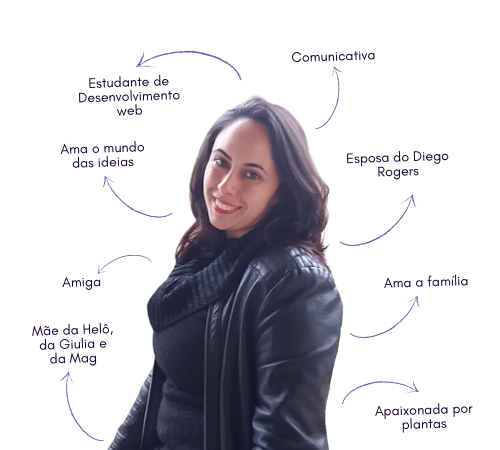
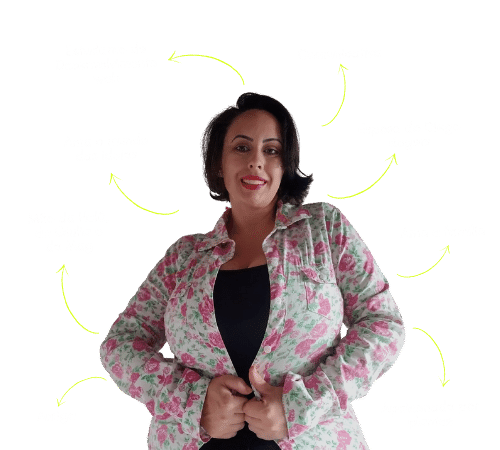
organizei a semantica e troquei a foto

diff --git a/index.html b/index.html
@@ -8,79 +8,89 @@
 </head>
 <body> 
     <header>
-        <ul>
-            <li><a href="#Quem sou eu">Quem sou eu</a>
-            <li><a href="#Minhas habilidades">Minhas habilidades</a>
-            <li><a href="#Minhas referencias">Minhas referências</a>
-            <li><a href="#Sobre carreira">Sobre carreira</a>
-            <li><a href="#Meus projetos">Meus projetos</a>
-            <li><a href="Vamos nos conectar">Vamos nos conectar?</a>
-            </ul>
+            <h1>Miriam da Silva Vidoto Santana</h1> 
+            <nav>
+                <a href="#Quem sou eu">Quem sou eu</a>
+                <a href="#Minhas habilidades">Minhas habilidades</a>
+                <a href="#Minhas referencias">Minhas referências</a>
+                <a href="#Sobre carreira">Sobre carreira</a>
+                <a href="#Meus projetos">Meus projetos</a>
+                <a href="Vamos nos conectar">Vamos nos conectar?</a>
+            </nav>
     </header>  
     <main>    
-        <h1 id="Quem sou eu">Miriam da Silva Vidoto Santana</h1>
-        <h2>Eu sou meu maior projeto em desenvolvimento</h2>
-        <img src="images/minha-foto.png" alt="Minha foto">
-        <p>Olá, tudo bem? </p>
-        <p>Meu nome é Miriam, tenho 32 anos , sou filha da Sueli e do Junior, esposa do Diego e mãe da Heloísa de 10 anos, da Giulia de 6 anos e da Mag (minha bebê de 4 patas),  sou brasileira e atualmente meu lar está em Guarujá - SP.</p>
-        <p>Sou estudante de Desenvolvimento na <a href="https://www.betrybe.com/?utm_source=google&utm_medium=cpc&utm_campaign=pmax&utm_content=ad1&gclid=CjwKCAjwxZqSBhAHEiwASr9n9OaHDs_IPYOV6vLOSEwQWFu0UWgXkovAmG_754FUmUWv0P2CVjGU5BoCa2sQAvD_BwE" target="_blank" rel="external">Trybe</a>, onde aprendo um pouco mais a cada dia para me tornar uma Dev Full Stack</p>
-        <hr>
-        <h2 id="Minhas habilidades">Minhas habilidades</h2>
-        <p>Essas são as principais habilidades que desenvolvi ao longo do tempo e que procuro aprimorar a cada dia:</p>
-        <ul>
-            <li>Comunicação
-            <li><strong>Organização</strong>
-            <li>Resiliência
-            <li>Criatividade
-            <li>Planejamento estratégico
-            <li><strong>Autogestão</strong>
-            <li>Algoritmo
-            <li>Diagramação
-            <li>Técnicas de vendas
-            <li>Gestão empresarial
-            <li><strong>Sede em aprender</strong>
-        </ul>
-        <hr>
-        <h2 id="Minhas referencias">Minhas referências</h2>
-        <p>Na minha vida, existem muitas pessoas que me inspiram, família, amigos e profissionais.</p>
-        <p>Na internet também existem pessoas que eu tenho como referência, e conteúdos que costumo consumir. </p>
-        <p>Gosto muito do <a href="https://blog.betrybe.com/" target="_blank" rel="external">blog da Trybe</a> , com conteúdos riquíssimos e atuais.Aprendo muito com o <a href="https://www.cursoemvideo.com/" target="_blank" rel="external">Curso em vídeo</a>, a metodologia do <a href="https://www.instagram.com/gustavoguanabara/" target="_blank" rel="external">Gustavo Guanabara</a> me encanta, amo a forma simples que ele ensina, e sempre me atualizo com o casal de Devs do meu coração com o <a href="https://www.codigofonte.com.br/" target="_blank" rel="external">Código fonte</a>, a <a href="https://www.linkedin.com/in/vanessa-weber-froes/?originalSubdomain=br" target="_blank" rel="external">Vanessa</a> e o <a href="https://www.linkedin.com/in/gabrielfroes/?originalSubdomain=br" target="-blank" rel="external">Gabriel</a> me inspiram</p>
-        <p>Não se compare, se inspire!</p>
-        <hr>
-        <h2 id="Sobre carreira">Sobre carreira</h2>
-        <p><q>Não se sinta culpado por não saber o que fazer da vida, as pessoas mais interessantes que eu conheço não sabiam, aos vinte e dois o que queriam fazer da vida. Alguns dos quarentões mais interessantes que eu conheço ainda não sabem</q>... esse trecho do f texto <strong>Filtro solar</strong>  sempre martelou muito em minha mente!</p>
-        <p>Acho chic quem diz estar em transição de carreira, mas a minha carreira parece uma constante transição.</p>
-        <p>Já sonhei em ser professora, acho que o sonho de muitas crianças, pois é o profissional que logo cedo nos encanta por realmente fazer a diferença em nosso mundo. Amo a área da educação, inclusive nessa área já passei em 3 concursos públicos mas acabei não assumindo nenhum. </p>
-        <p>á tive um pezinho na área da saúde, um ano maravilhoso que me despertou para pensar em cursar técnico em enfermagem, mas isso ficou só no pensamento mesmo. </p>
-        <p>Acredite se quiser, já me certifiquei e trabalhei na área da beleza como maquiadora e designer de sobrancelhas. </p>
-        <p>Também já trabalhei com diversos tipos de artesanatos, mas posso considerar mais um hobby.
-        </p>
-        <p>Me formei a nível técnico em Gestão de pequenos Negócios, pensei em diversos momentos em ter minha própria empresa e hoje meu maior empreendimento é minha casa e minha família que eu administro com paixão!</p>
-        <p>Em certo momento iniciei o curso de contabilidade... Mas também não foi dessa vez.</p>
-        <p>Atuei na maior parte da minha vida no comércio e aprendi muita coisa, acredito que toda experiência é válida quando bem aplicada. Aprendi a sempre colocar meu coração  em tudo o que faço. Um trabalho deve ser mais que apenas pela recompensa financeira, precisa ser uma missão de vida e meu desejo é sempre fazer parte da solução. de cumprir os objetivos com eficácia.</p>
-        <p>Enfim, esse ano (2022) decretei que daria uma guinada na minha carreira, com o pensamento de seguir na área de tecnologia.</p>
-        <p>Como sempre eu pensei em diversos caminhos a seguir e enquanto analisava cada um deles, me deparei com a visão e missão da Trybe e me apaixonei por essa  escola maravilhosa que, com muito suor, hoje eu estudo! </p>
-        <p>Sei que vai ser um ano desafiador! Vou estudar até sair fumacinha da cabeça, mas tenho convicção que vou me realizar nessa área!</p>
-        <p>Com as expectativas lá em cima, eu vou com tudo!!! Ao infinito e além! Porque foguete não tem ré!</p>
-        <hr>
-        <h2 id="Meus projetos">Meus projetos</h2>
-        <p>Esse é um espaço para eu falar sobre meus projetos como estudante na Trybe</p>
+        <section id="Quem sou eu">
+            <h2> Eu sou meu maior projeto em desenvolvimento</h2>
+            <img src="images/minha-foto.png" alt="Minha foto">
+            <p>Olá, tudo bem? </p>
+            <p>Meu nome é Miriam, tenho 32 anos , sou filha da Sueli e do Junior, esposa do Diego e mãe da Heloísa de 10 anos, da Giulia de 6 anos e da Mag (minha bebê de 4 patas),  sou brasileira e atualmente meu lar está em Guarujá - SP.</p>
+            <p>Sou estudante de Desenvolvimento na <a href="https://www.betrybe.com/?utm_source=google&utm_medium=cpc&utm_campaign=pmax&utm_content=ad1&gclid=CjwKCAjwxZqSBhAHEiwASr9n9OaHDs_IPYOV6vLOSEwQWFu0UWgXkovAmG_754FUmUWv0P2CVjGU5BoCa2sQAvD_BwE" target="_blank" rel="external">Trybe</a>, onde aprendo um pouco mais a cada dia para me tornar uma Dev Full Stack</p>
+        </section>
+        
+        <section id="Minhas habilidades">
+            <h2>Minhas habilidades</h2>
+            <p>Essas são as principais habilidades que desenvolvi ao longo do tempo e que procuro aprimorar a cada dia:</p>
+            <ul>
+                <li>Comunicação
+                <li><strong>Organização</strong>
+                <li>Resiliência
+                <li>Criatividade
+                <li>Planejamento estratégico
+                <li><strong>Autogestão</strong>
+                <li>Algoritmo
+                <li>Diagramação
+                <li>Técnicas de vendas
+                <li>Gestão empresarial
+                <li><strong>Sede em aprender</strong>
+            </ul>
+        </section>
+        <section id="Minhas referencias">
+            <h2>Minhas referências</h2>
+            <p>Na minha vida, existem muitas pessoas que me inspiram, família, amigos e profissionais.</p>
+            <p>Na internet também existem pessoas que eu tenho como referência, e conteúdos que costumo consumir. </p>
+            <p>Gosto muito do <a href="https://blog.betrybe.com/" target="_blank" rel="external">blog da Trybe</a> , com conteúdos riquíssimos e atuais.Aprendo muito com o <a href="https://www.cursoemvideo.com/" target="_blank" rel="external">Curso em vídeo</a>, a metodologia do <a href="https://www.instagram.com/gustavoguanabara/" target="_blank" rel="external">Gustavo Guanabara</a> me encanta, amo a forma simples que ele ensina, e sempre me atualizo com o casal de Devs do meu coração com o <a href="https://www.codigofonte.com.br/" target="_blank" rel="external">Código fonte</a>, a <a href="https://www.linkedin.com/in/vanessa-weber-froes/?originalSubdomain=br" target="_blank" rel="external">Vanessa</a> e o <a href="https://www.linkedin.com/in/gabrielfroes/?originalSubdomain=br" target="-blank" rel="external">Gabriel</a> me inspiram</p>
+            <p>Não se compare, se inspire!</p>
+        </section>
+        <section id="Sobre carreira">
+            <h2>Sobre carreira</h2>
+            <article>
+                <p><q>Não se sinta culpado por não saber o que fazer da vida, as pessoas mais interessantes que eu conheço não sabiam, aos vinte e dois o que queriam fazer da vida. Alguns dos quarentões mais interessantes que eu conheço ainda não sabem</q>... esse trecho do f texto <strong>Filtro solar</strong>  sempre martelou muito em minha mente!</p>
+                <p>Acho chic quem diz estar em transição de carreira, mas a minha carreira parece uma constante transição.</p>
+                <p>Já sonhei em ser professora, acho que o sonho de muitas crianças, pois é o profissional que logo cedo nos encanta por realmente fazer a diferença em nosso mundo. Amo a área da educação, inclusive nessa área já passei em 3 concursos públicos mas acabei não assumindo nenhum. </p>
+                <p>á tive um pezinho na área da saúde, um ano maravilhoso que me despertou para pensar em cursar técnico em enfermagem, mas isso ficou só no pensamento mesmo. </p>
+                <p>Acredite se quiser, já me certifiquei e trabalhei na área da beleza como maquiadora e designer de sobrancelhas. </p>
+                <p>Também já trabalhei com diversos tipos de artesanatos, mas posso considerar mais um hobby.
+                </p>
+                <p>Me formei a nível técnico em Gestão de pequenos Negócios, pensei em diversos momentos em ter minha própria empresa e hoje meu maior empreendimento é minha casa e minha família que eu administro com paixão!</p>
+                <p>Em certo momento iniciei o curso de contabilidade... Mas também não foi dessa vez.</p>
+                <p>Atuei na maior parte da minha vida no comércio e aprendi muita coisa, acredito que toda experiência é válida quando bem aplicada. Aprendi a sempre colocar meu coração  em tudo o que faço. Um trabalho deve ser mais que apenas pela recompensa financeira, precisa ser uma missão de vida e meu desejo é sempre fazer parte da solução. de cumprir os objetivos com eficácia.</p>
+                <p>Enfim, esse ano (2022) decretei que daria uma guinada na minha carreira, com o pensamento de seguir na área de tecnologia.</p>
+                <p>Como sempre eu pensei em diversos caminhos a seguir e enquanto analisava cada um deles, me deparei com a visão e missão da Trybe e me apaixonei por essa  escola maravilhosa que, com muito suor, hoje eu estudo! </p>
+                <p>Sei que vai ser um ano desafiador! Vou estudar até sair fumacinha da cabeça, mas tenho convicção que vou me realizar nessa área!</p>
+                <p>Com as expectativas lá em cima, eu vou com tudo!!! Ao infinito e além! Porque foguete não tem ré!</p>
+            </article>
+        </section>
+        <section id="Meus projetos">
+            <h2>Meus projetos</h2>
+            <p>Esse é um espaço para eu falar sobre meus projetos como estudante na Trybe</p>
+        </section>
+        <section id="vamos nos conectar">
+            <h2>Vamos nos conectar?</h2>
+            <a href="https://github.com/MiriamVidoto" target="_blank" rel="external">
+                <img src="images/git.png" alt="github-icon">
+            </a>
+            <a href="https://www.linkedin.com/in/miriam-vidoto/" target="_blank" rel="external">
+                <img src="images/linkedin.png" alt="linkedin-icon">
+            </a>
+            <a href="https://www.facebook.com/miriamvidoto.hdg"target="_blank" rel="external">
+                <img src="images/face.png" alt="facebook-icon">
+            </a>
+            <a href="https://www.instagram.com/miriamsvidoto/"target="_blank" rel="external">
+                <img src="images/insta.png" alt="instagram-icon">
+            </a>
+        </section>
     </main>
-    <h2>Vamos nos conectar?</h2>
-     <a href="https://github.com/MiriamVidoto" target="_blank" rel="external">
-        <img src="images/git.png" alt="github-icon">
-     </a>
-     <a href="https://www.linkedin.com/in/miriam-vidoto/" target="_blank" rel="external">
-         <img src="images/linkedin.png" alt="linkedin-icon">
-     </a>
-     <a href="https://www.facebook.com/miriamvidoto.hdg"target="_blank" rel="external">
-         <img src="images/face.png" alt="facebook-icon">
-     </a>
-     <a href="https://www.instagram.com/miriamsvidoto/"target="_blank" rel="external">
-         <img src="images/insta.png" alt="instagram-icon">
-     </a>
-     <footer>
-
+    <footer><p>&copy; Miriam Vidoto &#x1f609; </p>
     </footer>  
 </body>
 </html>

diff --git a/style.css b/style.css
@@ -24,7 +24,7 @@ main{
     margin: auto;
 }
 h1{
-    color: #6767af;
+    color: aliceblue;
     text-align: center;
     font: 400 3em 'Lilita One', cursive;
 }
